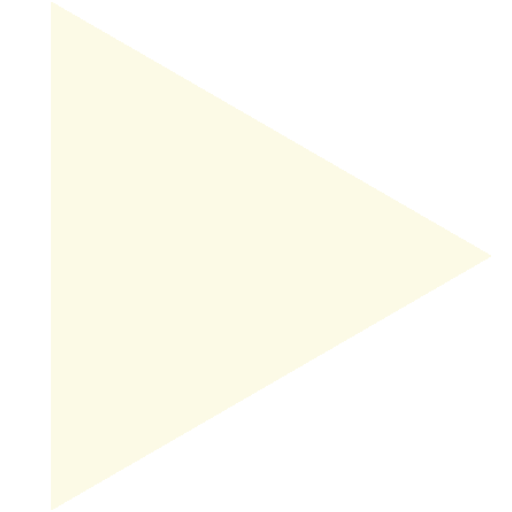
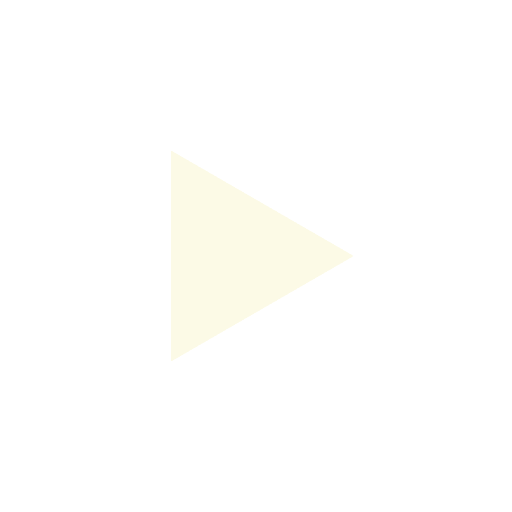
Alpha margins added to textures to make UI buttons bigger.

diff --git a/Classes/GameScene.cpp b/Classes/GameScene.cpp
@@ -16,7 +16,7 @@
 USING_NS_CC;
 
 #define BUTTON_TEXTURES_SIZE 512.0f
-#define BUTTON_SPRITE_SIZE 46.0f
+#define BUTTON_SPRITE_SIZE 100.0f
 
 #define LABELS_POS_Y 1195.0f
 #define BUTTONS_POS_Y 72.0f
